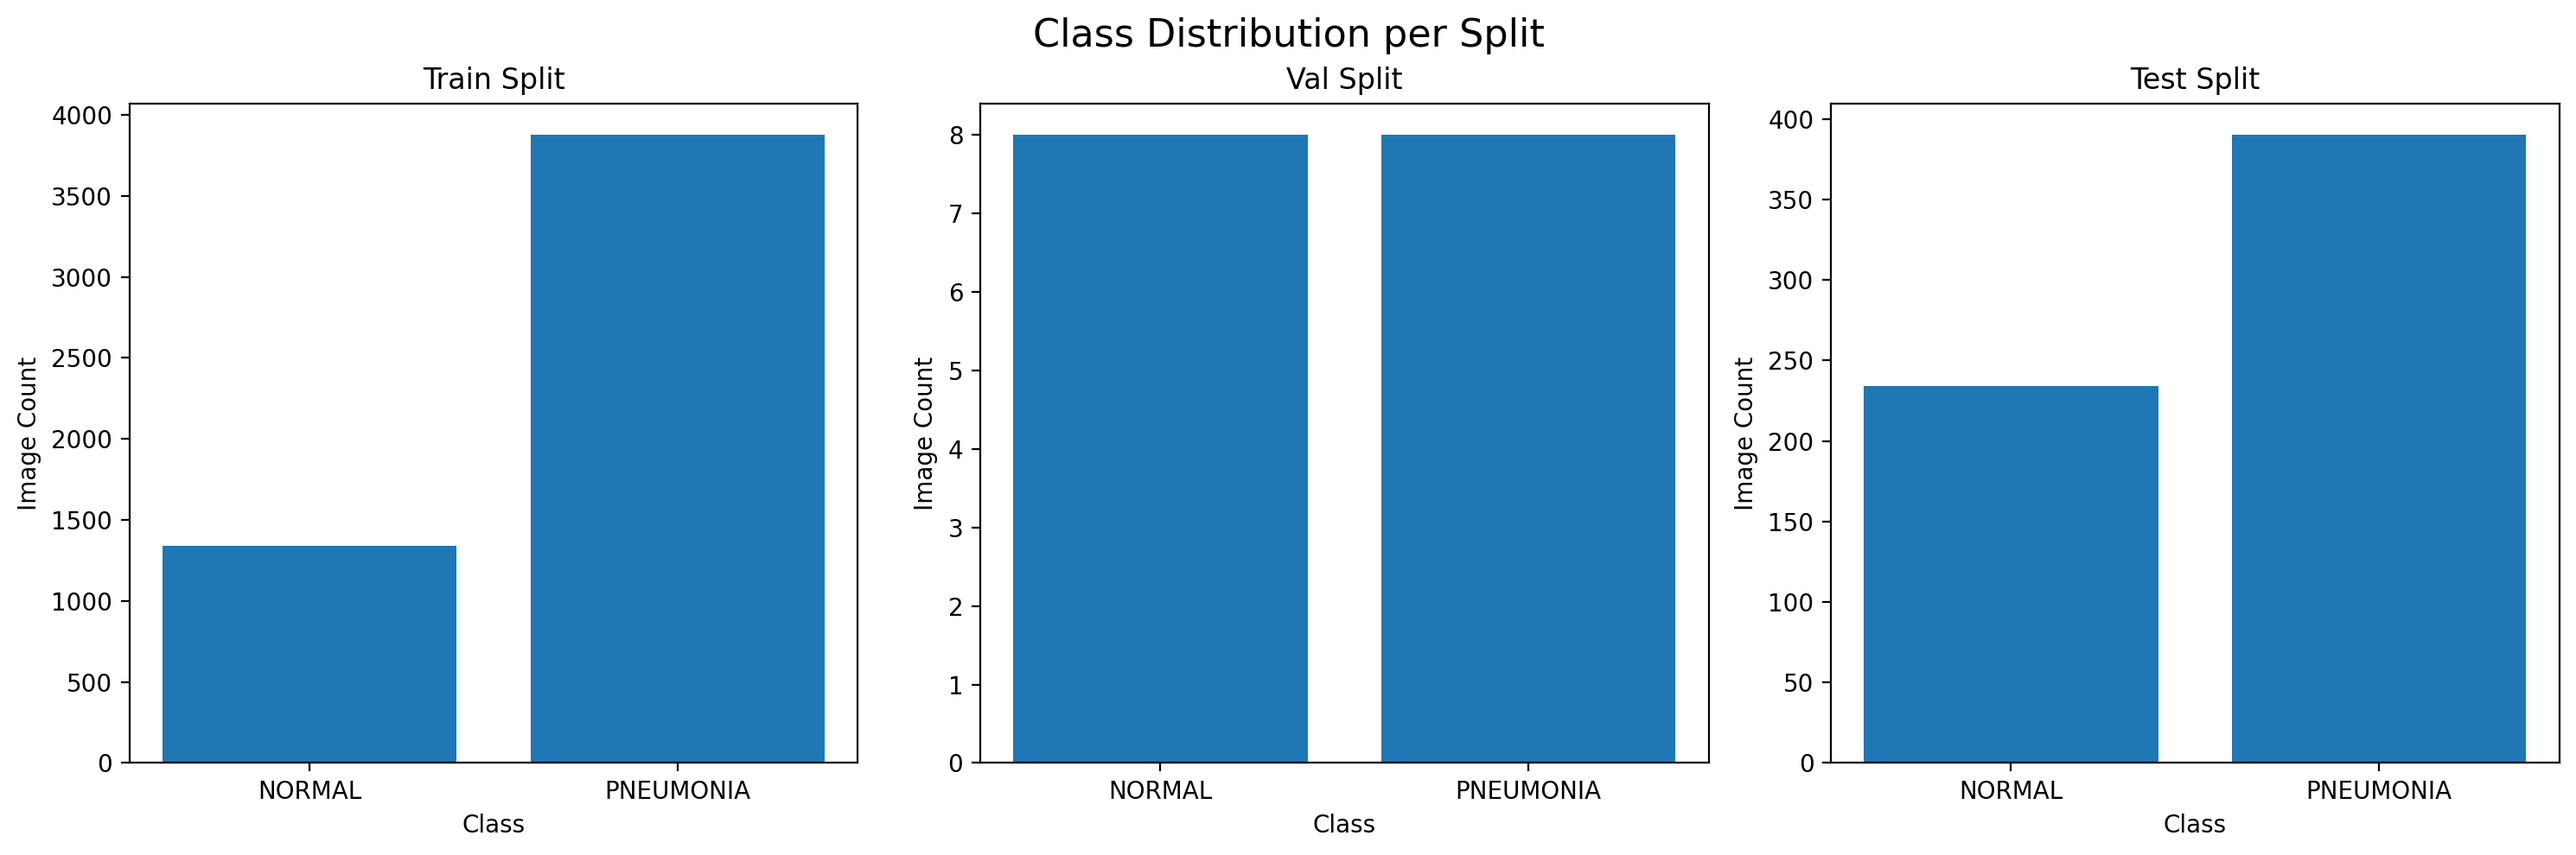
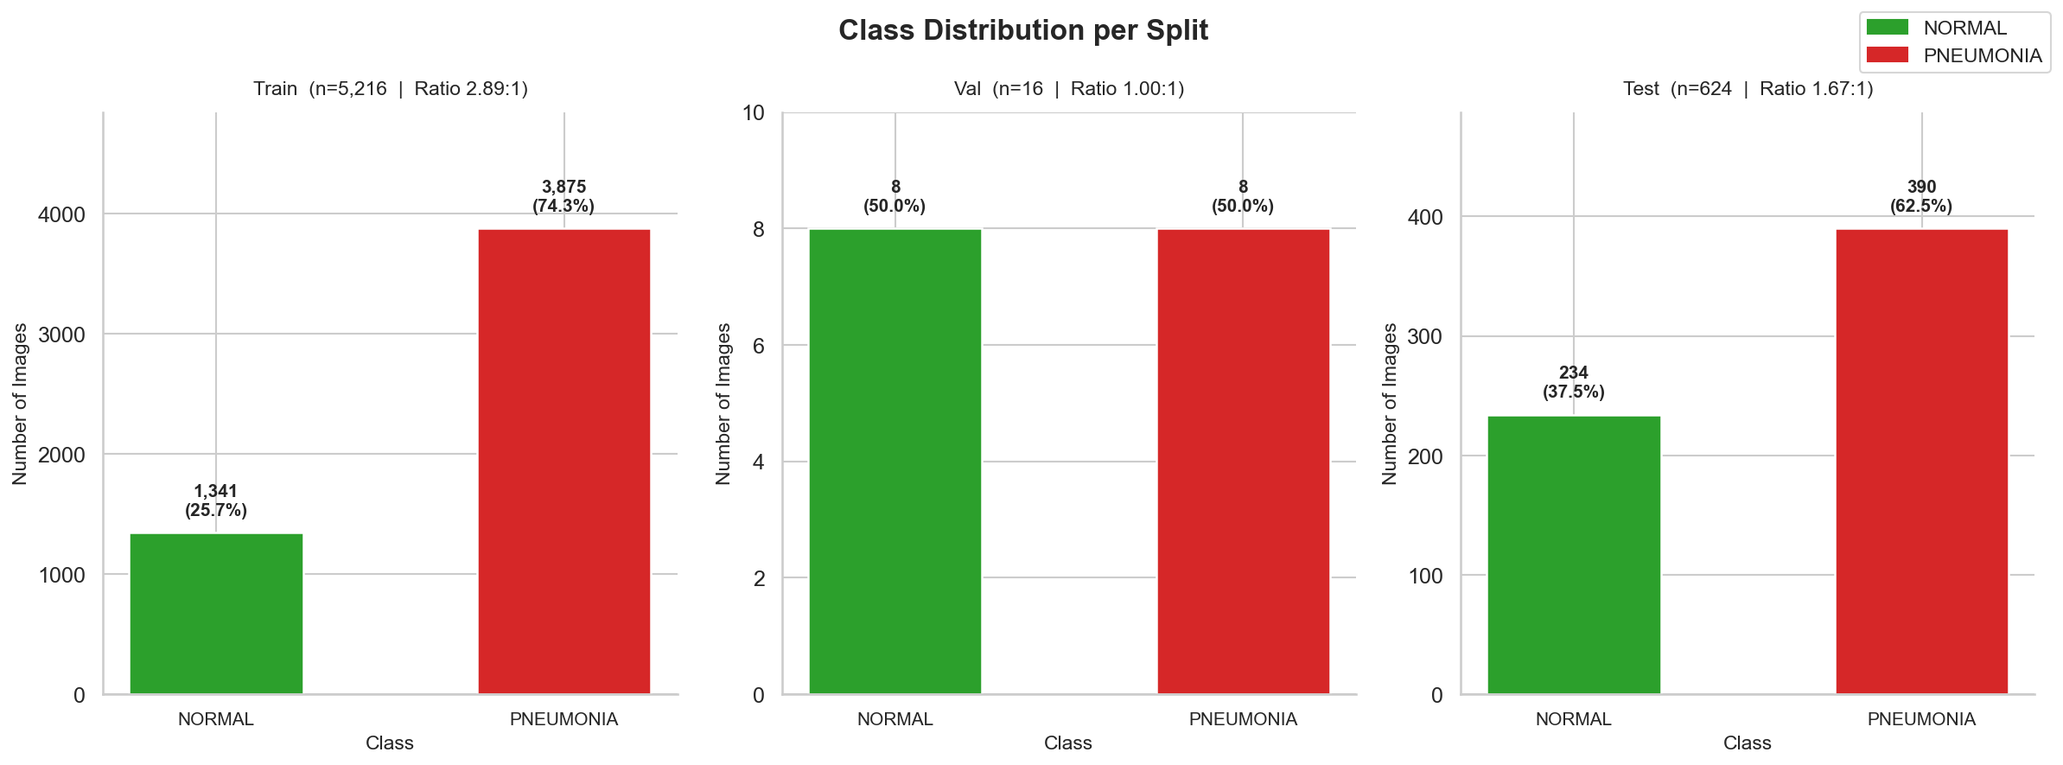
new png files for /artifacts and .py codes areadded

diff --git a/src/visualization/class_distribution.py b/src/visualization/class_distribution.py
@@ -1,0 +1,135 @@
+"""
+Generate a class distribution chart (per split: train, val, test).
+
+Output: artifacts/figures/class_distribution.png
+
+Usage:
+    python src/visualization/class_distribution.py
+    python src/visualization/class_distribution.py --data-dir data/raw/chest_xray --output artifacts/figures/class_distribution.png --dpi 150
+"""
+
+import argparse
+import os
+
+import matplotlib.patches as mpatches
+import matplotlib.pyplot as plt
+import seaborn as sns
+
+SPLITS = ["train", "val", "test"]
+CLASSES = ["NORMAL", "PNEUMONIA"]
+COLORS = {"NORMAL": "#2ca02c", "PNEUMONIA": "#d62728"}
+
+
+def count_images(data_dir: str) -> dict:
+    counts = {}
+    for split in SPLITS:
+        counts[split] = {}
+        for cls in CLASSES:
+            path = os.path.join(data_dir, split, cls)
+            if os.path.isdir(path):
+                counts[split][cls] = sum(
+                    1 for f in os.listdir(path)
+                    if f.lower().endswith((".jpg", ".jpeg", ".png"))
+                )
+            else:
+                counts[split][cls] = 0
+    return counts
+
+
+def plot_class_distribution(
+    data_dir: str = "data/raw/chest_xray",
+    output_path: str = "artifacts/figures/class_distribution.png",
+    dpi: int = 150,
+) -> None:
+    counts = count_images(data_dir)
+
+    total_images = sum(counts[s][c] for s in SPLITS for c in CLASSES)
+    if total_images == 0:
+        raise FileNotFoundError(
+            f"No images found under '{data_dir}'. "
+            "Download the Kaggle chest X-ray dataset and place it at that path before running this script."
+        )
+
+    sns.set_theme(style="whitegrid", font_scale=1.1)
+
+    fig, axes = plt.subplots(1, 3, figsize=(16, 6))
+    fig.suptitle("Class Distribution per Split", fontsize=16, fontweight="bold")
+
+    for ax, split in zip(axes, SPLITS):
+        values = [counts[split][cls] for cls in CLASSES]
+        split_total = sum(values)
+
+        bars = ax.bar(
+            CLASSES,
+            values,
+            color=[COLORS[c] for c in CLASSES],
+            width=0.5,
+            edgecolor="white",
+            linewidth=1.2,
+        )
+
+        y_max = max(values) if max(values) > 0 else 1
+        for bar, val in zip(bars, values):
+            pct = (val / split_total * 100) if split_total > 0 else 0.0
+            ax.text(
+                bar.get_x() + bar.get_width() / 2,
+                bar.get_height() + y_max * 0.03,
+                f"{val:,}\n({pct:.1f}%)",
+                ha="center",
+                va="bottom",
+                fontsize=10,
+                fontweight="bold",
+            )
+
+        ratio_str = ""
+        if values[0] > 0:
+            ratio = values[1] / values[0]
+            ratio_str = f"  |  Ratio {ratio:.2f}:1"
+
+        ax.set_title(
+            f"{split.capitalize()}  (n={split_total:,}{ratio_str})",
+            fontsize=11,
+            pad=10,
+        )
+        ax.set_xlabel("Class", fontsize=11)
+        ax.set_ylabel("Number of Images", fontsize=11)
+        ax.set_ylim(0, y_max * 1.25)
+        ax.tick_params(axis="x", labelsize=10)
+        sns.despine(ax=ax, left=False, bottom=False)
+
+    legend_patches = [mpatches.Patch(color=COLORS[c], label=c) for c in CLASSES]
+    fig.legend(
+        handles=legend_patches,
+        loc="upper right",
+        bbox_to_anchor=(1.0, 1.0),
+        fontsize=11,
+        frameon=True,
+    )
+
+    plt.tight_layout()
+    os.makedirs(os.path.dirname(output_path), exist_ok=True)
+    plt.savefig(output_path, dpi=dpi, bbox_inches="tight")
+    plt.close()
+    print(f"Saved: {output_path}")
+
+
+if __name__ == "__main__":
+    parser = argparse.ArgumentParser(description="Generate class distribution chart.")
+    parser.add_argument(
+        "--data-dir",
+        default="data/raw/chest_xray",
+        help="Root directory of the chest_xray dataset (default: data/raw/chest_xray)",
+    )
+    parser.add_argument(
+        "--output",
+        default="artifacts/figures/class_distribution.png",
+        help="Output path for the figure (default: artifacts/figures/class_distribution.png)",
+    )
+    parser.add_argument(
+        "--dpi",
+        type=int,
+        default=150,
+        help="Figure resolution in DPI (default: 150)",
+    )
+    args = parser.parse_args()
+    plot_class_distribution(args.data_dir, args.output, args.dpi)

diff --git a/src/visualization/sample_grid.py b/src/visualization/sample_grid.py
@@ -1,0 +1,136 @@
+"""
+Generate sample image grids for each class (NORMAL and PNEUMONIA).
+
+Outputs:
+    artifacts/figures/sample_grid_normal.png
+    artifacts/figures/sample_grid_pneumonia.png
+
+Usage:
+    python src/visualization/sample_grid.py
+    python src/visualization/sample_grid.py --data-dir data/raw/chest_xray --split train --grid 4 --dpi 150
+"""
+
+import argparse
+import os
+import random
+
+import matplotlib.pyplot as plt
+import numpy as np
+from PIL import Image
+
+CLASSES = ["NORMAL", "PNEUMONIA"]
+OUTPUT_NAMES = {
+    "NORMAL": "sample_grid_normal.png",
+    "PNEUMONIA": "sample_grid_pneumonia.png",
+}
+TITLES = {
+    "NORMAL": "Normal — Sample Chest X-Ray Images",
+    "PNEUMONIA": "Pneumonia — Sample Chest X-Ray Images",
+}
+
+
+def load_image(path: str) -> np.ndarray:
+    img = Image.open(path).convert("L")
+    img = img.resize((224, 224), Image.LANCZOS)
+    return np.array(img)
+
+
+def get_image_paths(class_dir: str) -> list:
+    if not os.path.isdir(class_dir):
+        return []
+    return [
+        os.path.join(class_dir, f)
+        for f in os.listdir(class_dir)
+        if f.lower().endswith((".jpg", ".jpeg", ".png"))
+    ]
+
+
+def plot_sample_grid(
+    data_dir: str = "data/raw/chest_xray",
+    split: str = "train",
+    grid_size: int = 4,
+    output_dir: str = "artifacts/figures",
+    dpi: int = 150,
+    seed: int = 42,
+) -> None:
+    random.seed(seed)
+    n_samples = grid_size * grid_size
+    os.makedirs(output_dir, exist_ok=True)
+
+    for cls in CLASSES:
+        class_dir = os.path.join(data_dir, split, cls)
+        paths = get_image_paths(class_dir)
+
+        if not paths:
+            raise FileNotFoundError(
+                f"No images found at '{class_dir}'. "
+                "Download the Kaggle chest X-ray dataset and place it at the expected path."
+            )
+
+        sample_paths = random.sample(paths, min(n_samples, len(paths)))
+
+        fig, axes = plt.subplots(grid_size, grid_size, figsize=(grid_size * 2.5, grid_size * 2.5 + 1))
+        fig.suptitle(TITLES[cls], fontsize=14, fontweight="bold", y=1.01)
+
+        for ax, img_path in zip(axes.flat, sample_paths):
+            img = load_image(img_path)
+            ax.imshow(img, cmap="gray", vmin=0, vmax=255)
+            ax.axis("off")
+
+        # Hide any unused axes if fewer images than grid cells
+        for ax in list(axes.flat)[len(sample_paths):]:
+            ax.axis("off")
+
+        plt.tight_layout()
+        output_path = os.path.join(output_dir, OUTPUT_NAMES[cls])
+        plt.savefig(output_path, dpi=dpi, bbox_inches="tight")
+        plt.close()
+        print(f"Saved: {output_path}")
+
+
+if __name__ == "__main__":
+    parser = argparse.ArgumentParser(description="Generate sample image grids per class.")
+    parser.add_argument(
+        "--data-dir",
+        default="data/raw/chest_xray",
+        help="Root directory of the chest_xray dataset (default: data/raw/chest_xray)",
+    )
+    parser.add_argument(
+        "--split",
+        default="train",
+        choices=["train", "val", "test"],
+        help="Dataset split to sample images from (default: train)",
+    )
+    parser.add_argument(
+        "--grid",
+        type=int,
+        default=4,
+        help="Grid size NxN — total N² images per class (default: 4)",
+    )
+    parser.add_argument(
+        "--output-dir",
+        default="artifacts/figures",
+        help="Directory to save output figures (default: artifacts/figures)",
+    )
+    parser.add_argument(
+        "--dpi",
+        type=int,
+        default=150,
+        help="Figure resolution in DPI (default: 150)",
+    )
+    parser.add_argument(
+        "--seed",
+        type=int,
+        default=42,
+        help="Random seed for reproducibility (default: 42)",
+    )
+    args = parser.parse_args()
+
+    plot_sample_grid(
+        data_dir=args.data_dir,
+        split=args.split,
+        grid_size=args.grid,
+        output_dir=args.output_dir,
+        dpi=args.dpi,
+        seed=args.seed,
+    )

diff --git a/docs/issues/06_evaluation_protocol_definition.md b/docs/issues/06_evaluation_protocol_definition.md
@@ -11,19 +11,19 @@ Define the complete evaluation protocol for the Pneumonia Detection model, inclu
 Binary classifiers require a decision threshold to produce class labels from raw probability outputs. The default threshold of 0.5 may not be optimal for this task, where the cost of a false negative (missing pneumonia) is higher than a false positive. This issue defines the threshold policy and the full evaluation procedure before any model is trained.
 
 ## Deliverables
-- [ ] Evaluation protocol documented in `docs/` or as a notebook section
-- [ ] Primary metric identified and justified (recommended: ROC AUC + sensitivity)
-- [ ] Decision threshold policy documented (default 0.5; justification required for any deviation)
-- [ ] All metrics to be reported listed: accuracy, precision, recall, sensitivity, specificity, ROC AUC, confusion matrix
-- [ ] Evaluation split confirmed as the held-out test set from the Kaggle download
-- [ ] Reporting format agreed (table of metrics + saved figures)
+- [x] Evaluation protocol documented in `docs/` or as a notebook section
+- [x] Primary metric identified and justified (recommended: ROC AUC + sensitivity)
+- [x] Decision threshold policy documented (default 0.5; justification required for any deviation)
+- [x] All metrics to be reported listed: accuracy, precision, recall, sensitivity, specificity, ROC AUC, confusion matrix
+- [x] Evaluation split confirmed as the held-out test set from the Kaggle download
+- [x] Reporting format agreed (table of metrics + saved figures)
 
 ## Acceptance Criteria
-- [ ] Evaluation protocol is documented and committed
-- [ ] Primary metric and threshold policy are explicitly stated
-- [ ] All metrics listed in `docs/METRICS.md` are confirmed as in-scope for evaluation
-- [ ] The evaluation split is confirmed and documented
-- [ ] No evaluation decisions are deferred to after results are seen
+- [x] Evaluation protocol is documented and committed
+- [x] Primary metric and threshold policy are explicitly stated
+- [x] All metrics listed in `docs/METRICS.md` are confirmed as in-scope for evaluation
+- [x] The evaluation split is confirmed and documented
+- [x] No evaluation decisions are deferred to after results are seen
 
 ## Dependencies
 - `01_repo_scaffold_review.md`
